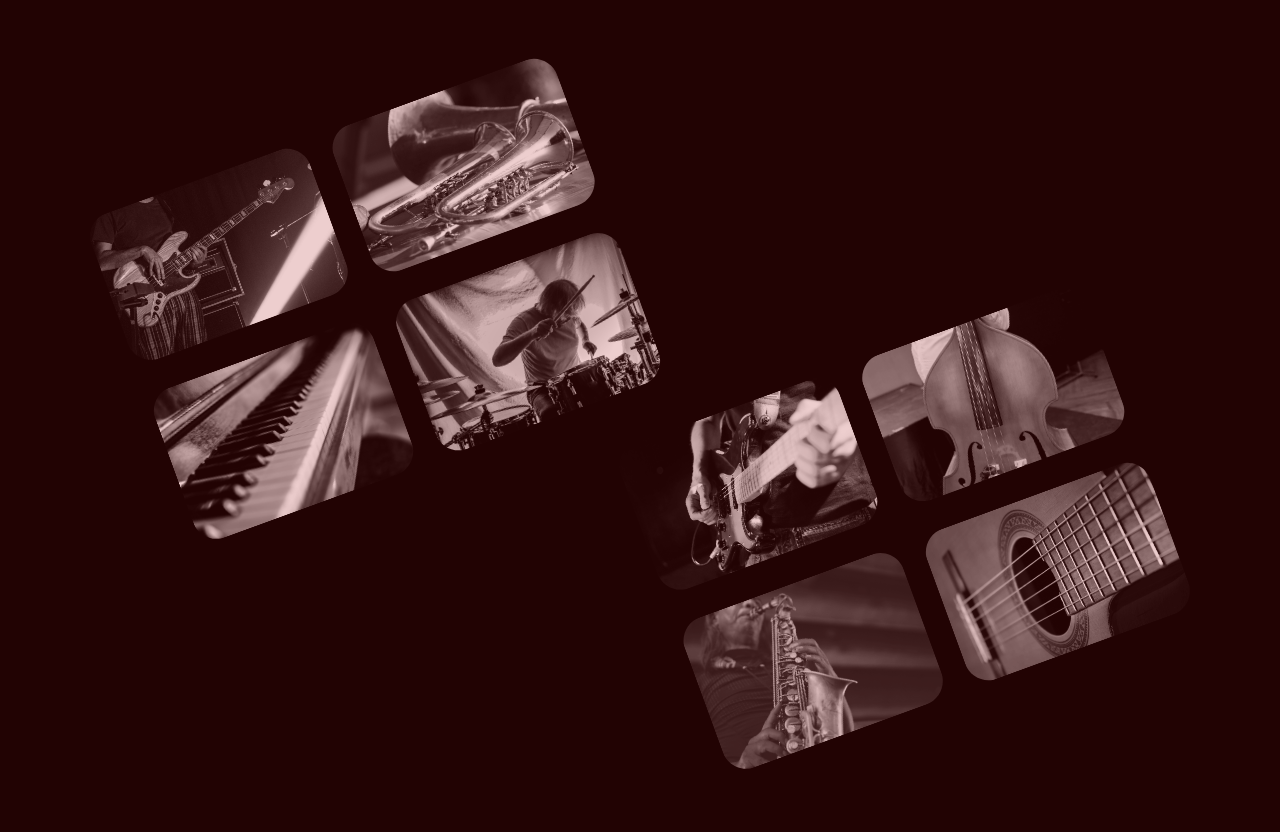
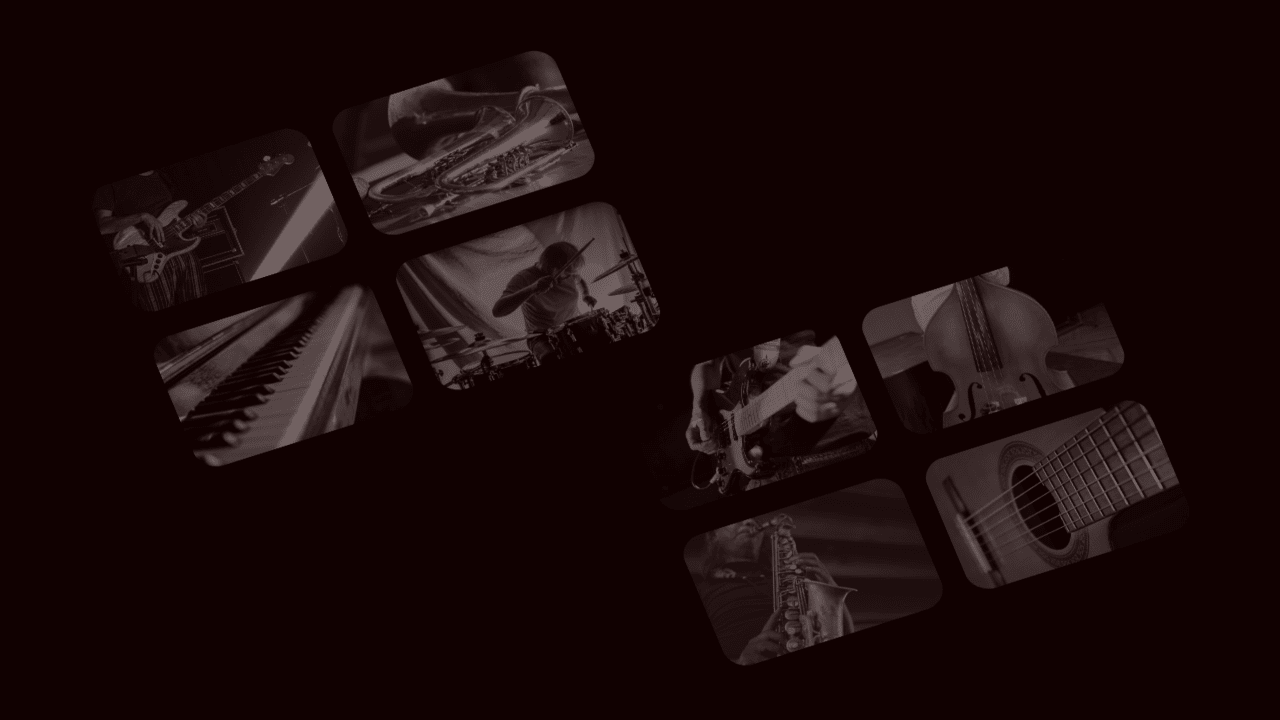
aula de 01/03/2024

Changed region(s): [[0.0625, 0.0611, 0.5312, 0.6722], [0.5312, 0.3667, 0.9375, 0.9472]]

diff --git a/style.css b/style.css
@@ -21,7 +21,9 @@ nav {
     display: flex;
     align-items: center;
     justify-content: space-around;
-    background-color: whitesmoke;
+}
+.logo {
+    scale: 1.2;
 }
 
 .blocos {
@@ -31,18 +33,21 @@ nav {
     justify-content: space-around;
     align-items: center;
     padding: 50px;
-    position: relative;
 }
 .bloco1 {
+    padding-top: 4%;
     border-radius: 30px;
     text-align: center;
     width: 30%;
-    height:500px;
+    height:600px;
     background-color: rgba(217, 97, 97, 0.8);
+    transition: all 0.4s;
 }
+.bloco1:hover{scale: 1.06;}
+
 .bloco1 .imagem {
     position: relative;
-    left: 27%;
+    left:35%;
     align-items: center;
     background-image: url("/images/effects-icon.png");
     background-size: cover;
@@ -59,15 +64,19 @@ nav {
 }
 
 .bloco2 {
+    padding-top: 4%;
     border-radius: 30px;
     text-align: center;
     width: 30%;
-    height:500px;
+    height: 600px;
     background-color: rgba(171, 18, 18, 0.8);
+    transition: all 0.4s;
 }
+.bloco2:hover{scale: 1.06;}
+
 .bloco2 .imagem {
     position: relative;
-    left: 27%;
+    left: 35%;
     align-items: center;
     background-image: url("/images/instruments_icon.png");
     background-size: cover;
@@ -84,15 +93,19 @@ nav {
 }
 
 .bloco3 {
+    padding-top: 4%;
     border-radius: 30px;
     text-align: center;
     width: 30%;
-    height:500px;
+    height:600px;
     background-color: rgba(255, 66, 66, 0.8);
+    transition: all 0.4s;
 }
+.bloco3:hover{scale: 1.06;}
+
 .bloco3 .imagem {
     position: relative;
-    left: 27%;
+    left: 35%;
     align-items: center;
     background-image: url("/images/amps-and-cabinets-icon.png");
     background-size: cover;

diff --git a/index.html b/index.html
@@ -8,11 +8,11 @@
 </head>
 <body>
     <nav> 
-        <div class="logo"> <img src="/images/equip-check-logo.png" alt="logo"></div>
-        <div class="navitems"> 
-            <a href="/">Social</a>
-            <a href="/">Sobre</a>    
+        <div class="logo">
+             <img src="/images/equip-check-logo.svg" alt="logo"> 
+             <a href="/"></a>
         </div>
+        <div class="navitems"> <img src="/images/equip-check-dropdown.svg" alt=""></div>
     </nav>
 
     <div class="blocos">
